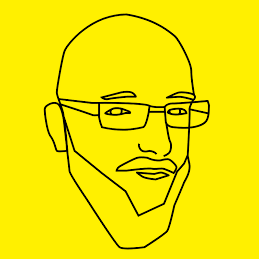
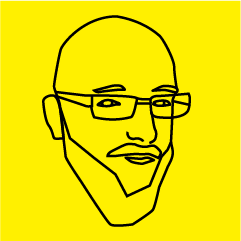
thicker pior & mateusz

Changed region(s): [[0.0, 0.0, 1.0, 1.0]]

diff --git a/docs/index.html b/docs/index.html
@@ -501,7 +501,7 @@
   </li>
 
   <li class="partner-item" itemscope itemtype="http://schema.org/Organization">
-      <img src="img/org_srebrny.jpg" alt="Mateusz Srebrny" class="photo org-photo" itemprop="image">
+      <img src="img/org_srebrny.png" alt="Mateusz Srebrny" class="photo org-photo" itemprop="image">
 	  <p class="org-name">Mateusz Srebrny</p>
   </li>
 
